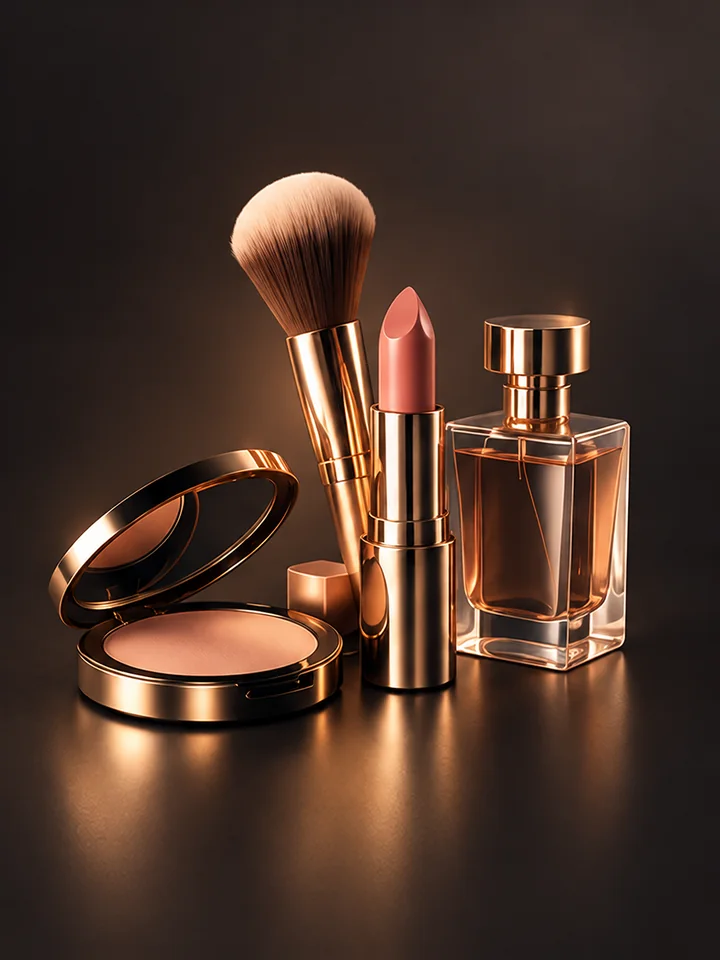
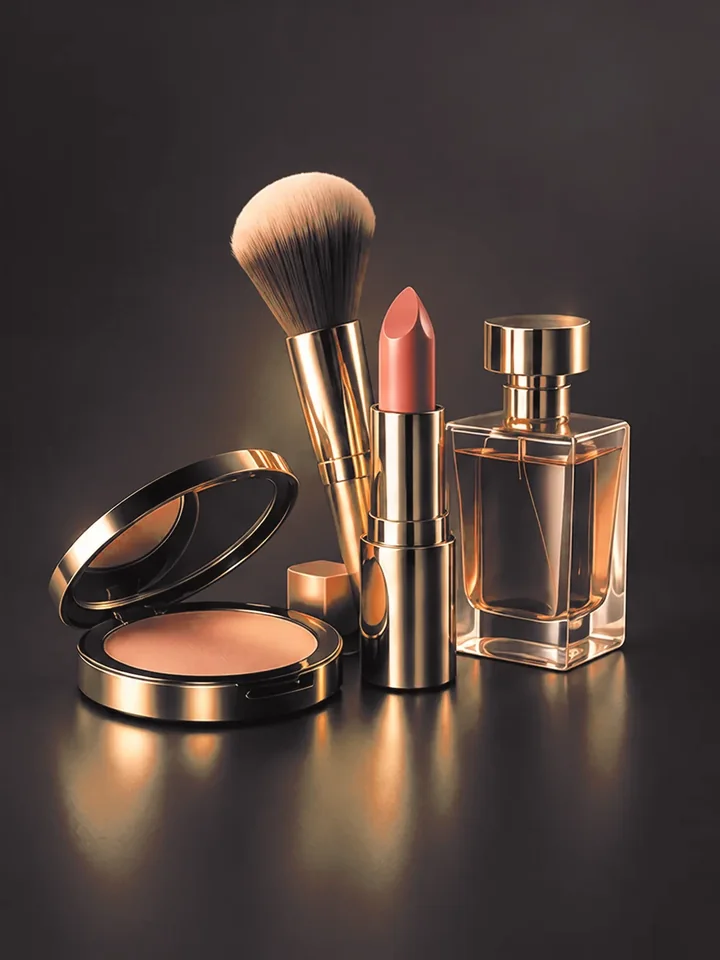
Home category cards: Beka's new pictures on a charcoal backdrop
The reviewer disliked the brown backdrop of the nine category pictures.
Beka supplied the same pictures on a cooler backdrop close to the
palette's warm charcoal; both sizes of each are replaced.

diff --git a/frontend/public/media/README.md b/frontend/public/media/README.md
@@ -81,3 +81,7 @@ Served as-is at `/media/...`.
   extra at the top (its topper met the card name). Saved twice: `name.webp`
   720×960 (q84) and `name-1086.webp` 1086×1448 (q80) for the `srcset`. Earlier
   sets (dark navy, then peach) are no longer in the repo.
+  2026-11-18: Beka replaced all nine with the same pictures on a cooler backdrop, close
+  to the palette's warm charcoal `#302B2D` (the reviewer disliked the brown one). His
+  1086×1448 webp files are used as they came for `name-1086.webp`; `name.webp` is the
+  720×960 copy made from them (q84).
